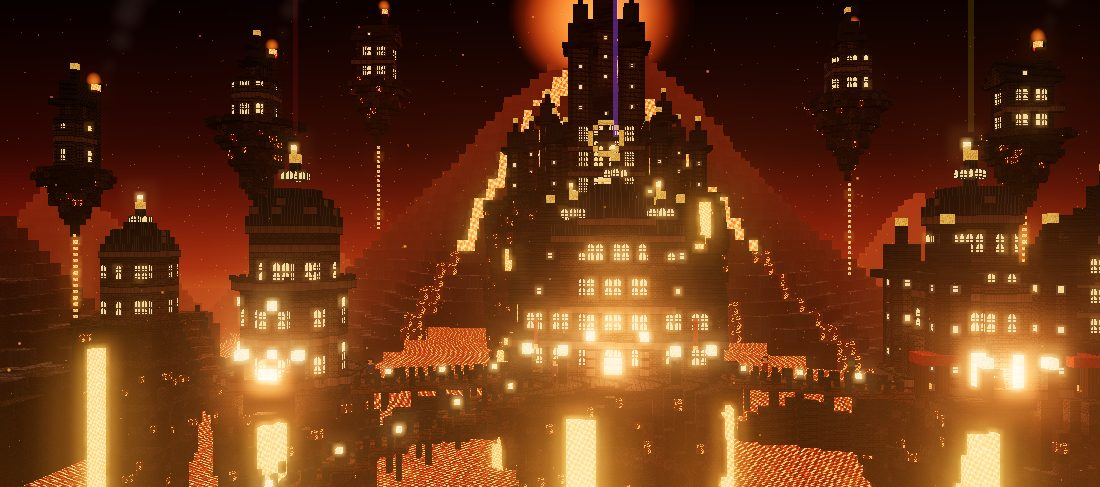
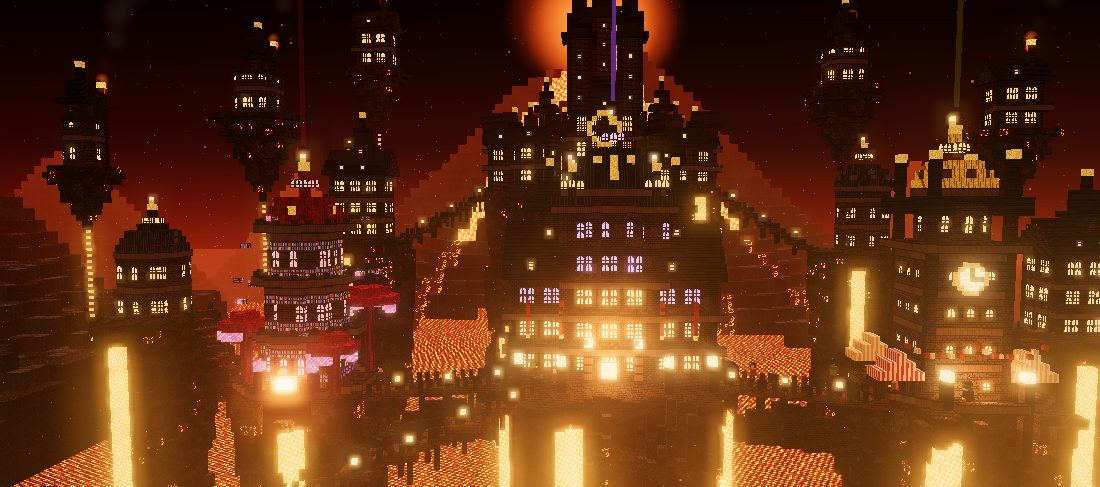
Feuerinsel: Figuren folgen schrägen Brücken, drei Bereiche mit eigenem Stil, Burgstadt, Mittelgrund-Säulen, Felsen vorne, höhere Startansicht
Claude-Session: https://claude.ai/code/session_01VyrGtGhpmUQ9uCwobRxi57

diff --git a/lernwelt/welten/feuer.js b/lernwelt/welten/feuer.js
@@ -26,7 +26,17 @@ export function build(A){
     wood: planks(["#5A3A26","#6A4630","#4E3220"], "#2A1A10"), beam: stripes(["#3A2618","#45301E","#2E1E12"], true),
     iron: noise(["#2A2A30","#34343A","#24242A"]),
     rail: tex(g=>{ for(let x=0;x<16;x++) for(let y=0;y<16;y++) P(g,x,y,(y<3||x%5===0)?"#2A2A30":"rgba(0,0,0,0)"); }),
-    banner: noise(["#9A1E14","#AA2618","#8A1A10"])
+    banner: noise(["#9A1E14","#AA2618","#8A1A10"]),
+    winV: tex(g=>{ for(let x=0;x<16;x++) for(let y=0;y<16;y++){ const arch = y<6 && Math.hypot(x-7.5,6-y)>5.6; const fr = arch || x<2||x>13||y>13||x===7||x===8||y===9; P(g,x,y, fr?"#2A1E1C":pick(["#C890FF","#E0B0FF","#B070FF","#D8A0FF"])); } }),
+    winR: tex(g=>{ for(let x=0;x<16;x++) for(let y=0;y<16;y++){ const arch = y<6 && Math.hypot(x-7.5,6-y)>5.6; const fr = arch || x<2||x>13||y>13||x===7||x===8||y===9; P(g,x,y, fr?"#2A1E1C":pick(["#FF7A8A","#FF9AA6","#FF5A70","#FFB0B8"])); } }),
+    copper: tex(g=>{ for(let y=0;y<16;y++) for(let x=0;x<16;x++) P(g,x,y, x%4===0 ? "#5A1A1A" : pick(["#8A2A22","#9A3428","#7A2018"])); }),
+    goldDome: tex(g=>{ for(let y=0;y<16;y++) for(let x=0;x<16;x++) P(g,x,y, x%4===0 ? "#8A5A18" : pick(["#D8A030","#E8B840","#C89028"])); }),
+    shelf: tex(g=>{ for(let y=0;y<16;y++) for(let x=0;x<16;x++){ const band=y<2||y>13||y===7||y===8; P(g,x,y, band?pick(["#4A2A1A","#5A3420"]):(x%3===2?"#1A0E08":["#C8413A","#3E63DD","#E9A81C","#3FA34D","#7C5CFF"][((x/3|0)+(y>8?2:0))%5])); } }),
+    crystal: tex(g=>{ for(let x=0;x<16;x++) for(let y=0;y<16;y++){ const d=(x+y)%6; P(g,x,y, d===0?"#FFE0F0":d<3?"#FF6AA0":"#C0306A"); } }),
+    stem: stripes(["#5A1E36","#6E2644","#4A162C","#7A3050"], true, "#3A1022"), wart: noise(["#8A0E14","#A0161C","#740A10","#B0242A","#960F18"]),
+    tentR: tex(g=>{ for(let y=0;y<16;y++) for(let x=0;x<16;x++) P(g,x,y, (Math.floor(x/4)%2) ? "#F2EBE2" : "#C8302A"); }),
+    tentY: tex(g=>{ for(let y=0;y<16;y++) for(let x=0;x<16;x++) P(g,x,y, (Math.floor(x/4)%2) ? "#F2EBE2" : "#E8A81C"); }),
+    clock: tex(g=>{ for(let x=0;x<16;x++) for(let y=0;y<16;y++){ const d=Math.hypot(x-7.5,y-7.5); P(g,x,y, d>7.4?"rgba(0,0,0,0)": d>6.3?"#C89028":(Math.abs(x-7.5)<.8&&y<8&&y>2)||(Math.abs(y-7.5)<.8&&x>7&&x<12)?"#1A1A1A":"#FFF2D0"); } })
   };
   const blocks = {
     rock:{side:T.rock}, rock2:{side:T.rock2}, basalt:{side:T.basaltS, top:T.basaltT}, magma:{side:T.magma, em:.9},
@@ -34,7 +44,10 @@ export function build(A){
     stone:{side:T.stone}, stoneD:{side:T.stoneD}, trim:{side:T.trim, top:T.stoneD}, slate:{side:T.slate}, dome:{side:T.dome},
     gold:{side:T.gold, em:.35}, win:{side:T.win, em:1.05}, winS:{side:T.winS, em:.95}, door:{side:T.door, em:.85},
     glow:{side:T.glow, em:1.3}, lamp:{side:T.glow, em:1.5, halo:[0xFFA040,3.2,.55]}, wood:{side:T.wood}, beam:{side:T.beam, top:T.wood},
-    iron:{side:T.iron}, rail:{side:T.rail, alpha:.98, cross:true}, banner:{side:T.banner}
+    iron:{side:T.iron}, rail:{side:T.rail, alpha:.98, cross:true}, banner:{side:T.banner},
+    winV:{side:T.winV, em:1.1}, winR:{side:T.winR, em:1.05}, copper:{side:T.copper}, goldDome:{side:T.goldDome, em:.25}, shelf:{side:T.shelf, em:.25},
+    crystal:{side:T.crystal, em:1.2, halo:[0xFF5A9A,3,.5]}, stem:{side:T.stem}, wart:{side:T.wart}, tentR:{side:T.tentR}, tentY:{side:T.tentY}, clock:{side:T.clock, em:.5, alpha:.99},
+    vlamp:{side:T.glow, em:1.5, halo:[0xB070FF,3.4,.6]}, ylamp:{side:T.glow, em:1.5, halo:[0xFFD040,3.6,.6]}
   };
   const F = A.fine, fs = (x,y,z,t) => F.set(Math.round(x*2),Math.round(y*2),Math.round(z*2),t);
   const W=120, D=96, SEA=0;
@@ -57,17 +70,17 @@ export function build(A){
   const fallFoot = [];
 
   // ---------- Bausteine ----------
-  const windowsRing = (cx,y,cz,r,step=2) => { for(let x=Math.floor(cx-r-1);x<=cx+r+1;x++) for(let z=Math.floor(cz-r-1);z<=cz+r+1;z++){ const d=Math.hypot(x-cx,z-cz); if(d<=r+.3 && d>r-.7){ const a=Math.atan2(z-cz,x-cx); if(Math.round(a*r/step*1.0)%2===0){ set(x,y,z,"win"); set(x,y+1,z,"win"); } } } };
+  const windowsRing = (cx,y,cz,r,step=2,wt="win") => { for(let x=Math.floor(cx-r-1);x<=cx+r+1;x++) for(let z=Math.floor(cz-r-1);z<=cz+r+1;z++){ const d=Math.hypot(x-cx,z-cz); if(d<=r+.3 && d>r-.7){ const a=Math.atan2(z-cz,x-cx); if(Math.round(a*r/step*1.0)%2===0){ set(x,y,z,wt); set(x,y+1,z,wt); } } } };
   const towerRound = (cx,y0,cz,r,h,o={}) => { for(let y=y0;y<y0+h;y++) ring(cx,y,cz,r,(xx,yy)=> (yy-y0)%5===4 ? "trim" : "stone");
-      for(let y=y0+1;y<y0+h-1;y+=5) windowsRing(cx,y,cz,r,o.wstep||2);
+      for(let y=y0+1;y<y0+h-1;y+=5) windowsRing(cx,y,cz,r,o.wstep||2,o.win||"win");
       disk(cx,y0+h-1,cz,r,"stoneD"); return y0+h; };
   // Kuppel aus Blöcken, mit Rippen und Laterne
   const domeAt = (cx,y0,cz,r,o={}) => { const rib = o.ribs ?? 8;
     for(let yy=0; yy<=r; yy++){ const rr = Math.sqrt(Math.max(0,r*r-yy*yy))*(o.squash||1);
-      for(let x=Math.floor(cx-rr-1);x<=cx+rr+1;x++) for(let z=Math.floor(cz-rr-1);z<=cz+rr+1;z++){ const d=Math.hypot(x-cx,z-cz); if(d<=rr+.3 && d>rr-1.3){ const a=Math.atan2(z-cz,x-cx); set(x,y0+yy,z, yy===0 ? "trim" : (Math.abs(Math.sin(a*rib/2))<.05 && yy>1 && yy<r-1 ? "trim" : "dome")); } } }
+      for(let x=Math.floor(cx-rr-1);x<=cx+rr+1;x++) for(let z=Math.floor(cz-rr-1);z<=cz+rr+1;z++){ const d=Math.hypot(x-cx,z-cz); if(d<=rr+.3 && d>rr-1.3){ const a=Math.atan2(z-cz,x-cx); set(x,y0+yy,z, yy===0 ? "trim" : (Math.abs(Math.sin(a*rib/2))<.05 && yy>1 && yy<r-1 ? (o.rib||"trim") : (o.mat||"dome"))); } } }
     const ty = y0 + Math.round(r*(o.squash||1)) + 1;
     // Laterne obendrauf
-    if(o.lantern!==false){ for(const [a,b] of [[1,0],[-1,0],[0,1],[0,-1]]) set(cx+a,ty,cz+b,"win"); set(cx,ty,cz,"glow"); set(cx,ty+1,cz,"dome"); set(cx,ty+2,cz,"gold"); fs(cx,ty+3,cz,"gold"); fs(cx,ty+3.5,cz,"lamp"); return ty+4; }
+    if(o.lantern!==false){ for(const [a,b] of [[1,0],[-1,0],[0,1],[0,-1]]) set(cx+a,ty,cz+b,o.win||"win"); set(cx,ty,cz,"glow"); set(cx,ty+1,cz,o.mat||"dome"); set(cx,ty+2,cz,"gold"); fs(cx,ty+3,cz,"gold"); fs(cx,ty+3.5,cz,o.lamp||"lamp"); return ty+4; }
     return ty; };
   // Spitzturm (gotisch): quadratischer Schaft, spitzer Helm
   const spire = (cx,y0,cz,s,h,helm) => { for(let y=y0;y<y0+h;y++) for(let a=-s;a<=s;a++) for(let b=-s;b<=s;b++){ if(Math.abs(a)!==s&&Math.abs(b)!==s) continue; const c=Math.abs(a)===s&&Math.abs(b)===s;
@@ -80,7 +93,7 @@ export function build(A){
       for(let yy=y; yy<y+fh; yy++) for(let x=x0;x<=x1;x++) for(let z=z0;z<=z1;z++){ if(x!==x0&&x!==x1&&z!==z0&&z!==z1) continue;
         const corner=(x===x0||x===x1)&&(z===z0||z===z1), band=yy===y+fh-1;
         let t = corner ? "stoneD" : band ? "trim" : "stone";
-        if(!corner && !band && yy>y && yy<y+fh-1){ const along = (z===z0||z===z1) ? x-x0 : z-z0; if(along%3!==0) t = "win"; }
+        if(!corner && !band && yy>y && yy<y+fh-1){ const along = (z===z0||z===z1) ? x-x0 : z-z0; if(along%3!==0) t = (o.win && f===fl-1) ? o.win : "win"; }
         set(x,yy,z,t); }
       // Balkon-Gesims
       if(f>0) for(let x=x0-1;x<=x1+1;x++){ set(x,y-1,z1+1,"trim"); if(x%2===0) fs(x+.25,y-.25,z1+1.25,"iron"); } }
@@ -99,50 +112,57 @@ export function build(A){
     country:   {x:98, z:58, col:0xFFE14A, ort:"Ember Market Tower"}
   };
 
-  // ---------- Grammar: großer Kuppelpalast auf der mittleren Säule ----------
-  { const {x,z}=S.grammar, top=26; pillar(x,z,top,13,{falls:[[Math.PI/2+.25,3],[Math.PI*.15,2]]});
-    const y=top; fill(x-11,y-1,z-9,x+11,y-1,z+10,"stoneD");
-    // Unterbau mit zwei Flügeln, Mittelbau höher
-    hall(x-11,y,z-6,7,10,2,{});                        // linker Flügel
-    hall(x+5,y,z-6,7,10,2,{});                         // rechter Flügel
-    const yt = hall(x-5,y,z-7,11,12,3,{roof:false});   // Mittelbau, 3 Geschosse
-    // Freitreppe und Portal
-    for(let k=0;k<3;k++) fill(x-3,y+k-1,z+5+k,x+3,y+k-1,z+5+k,null), fill(x-3,y-1,z+5,x+3,y-1,z+9,"stoneD");
-    door(x-1,y,z+4); for(const a of [-3,3]){ fill(x+a,y,z+5,x+a,y+3,z+5,"trim"); set(x+a,y+4,z+5,"lamp"); }
-    // Tambour mit Fenstern und große Kuppel
-    const ty = towerRound(x,yt,z-1,4,5,{wstep:1.5}); S.grammar.top=[x, domeAt(x,ty,z-1,5,{ribs:10}), z-1];
-    // kleine Kuppeltürme an den Ecken des Mittelbaus
-    for(const [a,b] of [[-5,-7],[5,-7],[-5,4],[5,4]]){ const t2 = towerRound(x+a,yt,z+b,1.6,3,{wstep:3}); domeAt(x+a,t2,z+b,2,{ribs:4}); }
-    // Spitztürme auf den Flügeln
-    for(const a of [-8,8]){ spire(x+a,y+8+3,z-2,1,4,5); }
-    for(const a of [-9,9]) banner(x+a,y+6,z+4.75,6);
-    for(const [a,b] of [[-10,8],[10,8],[-6,9],[6,9]]) lantern(x+a,y,z+b);
-    S.grammar.base=y; S.grammar.lift=1; S.grammar.cam={pos:[x+20,y+15,z+80], look:[x+15,y+15,z-2]}; }
+  // ---------- Grammar: großer Kuppelpalast (Gold-Violett) ----------
+  { const {x,z}=S.grammar, top=26; pillar(x,z,top,14,{falls:[[Math.PI/2+.25,3],[Math.PI*.15,2],[Math.PI*.85,2]]});
+    const y=top; fill(x-12,y-1,z-10,x+12,y-1,z+11,"stoneD");
+    hall(x-12,y,z-7,8,11,3,{win:"winV"}); hall(x+5,y,z-7,8,11,3,{win:"winV"});          // Flügel, 3 Geschosse
+    const yt = hall(x-5,y,z-8,11,13,4,{roof:false, win:"winV"});                           // Mittelbau, 4 Geschosse
+    for(let k=0;k<3;k++) fill(x-3,y-1,z+5+k,x+3,y-1,z+5+k,"stoneD");
+    door(x-1,y,z+4); for(const a of [-3,3]){ fill(x+a,y,z+5,x+a,y+3,z+5,"trim"); set(x+a,y+4,z+5,"vlamp"); }
+    // Balkone rund um den Mittelbau
+    for(const yy of [y+4,y+8,y+12]) for(let a=-6;a<=6;a++){ set(x+a,yy-1,z+5,"trim"); fs(x+a,yy+.25,z+5.75,"iron"); }
+    const ty = towerRound(x,yt,z-1.5,4.5,6,{wstep:1.3, win:"winV"}); S.grammar.top=[x, domeAt(x,ty,z-1.5,6,{ribs:12, rib:"gold", win:"winV", lamp:"vlamp"}), z-1.5];
+    for(const [a,b] of [[-5,-8],[5,-8],[-5,4],[5,4]]){ const t2 = towerRound(x+a,yt,z+b,1.6,4,{wstep:3, win:"winV"}); domeAt(x+a,t2,z+b,2,{ribs:4, lamp:"vlamp"}); }
+    for(const a of [-8,8]) spire(x+a,y+12+3,z-2,1,5,6);
+    for(const a of [-10,-6,6,10]) banner(x+a,y+9,z+4.75,8);
+    for(const [a,b] of [[-11,9],[11,9],[-6,10],[6,10]]) { fill(x+a,y,z+b,x+a,y+2,z+b,"iron"); set(x+a,y+3,z+b,"vlamp"); }
+    S.grammar.base=y; S.grammar.lift=1; S.grammar.cam={pos:[x+20,y+22,z+84], look:[x+15,y+16,z-2]}; }
 
-  // ---------- Vocabulary: Kuppelturm links ----------
+  // ---------- Vocabulary: schlanker Bibliotheksturm mit Kupferkuppel, rosa Kristallen und Purpurpilzen ----------
   { const {x,z}=S.vocabulary, top=26; pillar(x,z,top,8,{falls:[[Math.PI/2-.2,2]]});
-    const y=top; ring(x,y,z,7.5,"trim"); for(let a=0;a<16;a++){ const an=a/16*Math.PI*2; fs(x+Math.cos(an)*7.6,y+.5,z+Math.sin(an)*7.6,"iron"); }
-    let t = towerRound(x,y,z,5,10,{wstep:1.6});
-    ring(x,t,z,6,"trim"); for(let a=0;a<20;a++){ const an=a/20*Math.PI*2; fs(x+Math.cos(an)*6.2,t+.75,z+Math.sin(an)*6.2,"iron"); }     // Galerie
-    t = towerRound(x,t,z,4,6,{wstep:1.4});
-    S.vocabulary.top=[x, domeAt(x,t,z,4.5,{ribs:8}), z];
-    door(x-1,y,z+5); for(const a of [-3,3]) lantern(x+a,y,z+6);
-    for(const k of [y+3,y+8]) for(const [a,b] of [[0,1],[1,0],[-1,0]]) set(x+a*5.4|0,k,z+b*5.4|0,"lamp");
-    S.vocabulary.base=y; S.vocabulary.lift=1; S.vocabulary.cam={pos:[x+30,y+13,z+64], look:[x+15,y+13,z]}; }
+    const y=top; ring(x,y,z,7.5,"trim");
+    // Riesenpilze am Rand der Säule
+    const fungus = (fx,fy,fz,hh,r) => { fill(fx,fy,fz,fx,fy+hh,fz,"stem"); for(let a=-r;a<=r;a++) for(let b=-r;b<=r;b++){ const d=Math.hypot(a,b); if(d<=r+.3){ set(fx+a,fy+hh+1,fz+b,"wart"); if(d<r-.8) set(fx+a,fy+hh+2,fz+b,"wart"); if(d>r-.8 && rand()<.3) set(fx+a,fy+hh,fz+b,"crystal"); } } };
+    fungus(x-6,y,z+3,6,2); fungus(x+6,y,z-4,8,3); fungus(x+5,y,z+5,4,2);
+    let t = y;
+    for(let k=0;k<3;k++){ for(let yy=t;yy<t+6;yy++) ring(x,yy,z,4.6-k*.5,(xx,y2)=> (y2-t)===5 ? "trim" : ((y2-t)%3===1 ? "shelf" : "stone")); windowsRing(x,t+2,z,4.6-k*.5,1.4,"winR"); t+=6;
+      ring(x,t,z,5.8-k*.5,"trim"); for(let a=0;a<18;a++){ const an=a/18*Math.PI*2; fs(x+Math.cos(an)*(6-k*.5),t+.75,z+Math.sin(an)*(6-k*.5),"iron"); } }   // drei Galerien
+    S.vocabulary.top=[x, domeAt(x,t,z,4,{ribs:8, mat:"copper", rib:"gold", win:"winR"}), z];
+    // schwebende Bücher und Kristalle rund um den Turm
+    for(let i=0;i<14;i++){ const an=i/14*Math.PI*2+.3, rr=7+rand()*2, hy=y+6+rand()*14; fs(x+Math.cos(an)*rr,hy,z+Math.sin(an)*rr, i%3===0?"crystal":"shelf"); fs(x+Math.cos(an)*rr+.5,hy,z+Math.sin(an)*rr,"shelf"); }
+    door(x-1,y,z+5); for(const a of [-3,3]){ fill(x+a,y,z+6,x+a,y+2,z+6,"iron"); set(x+a,y+3,z+6,"crystal"); }
+    S.vocabulary.base=y; S.vocabulary.lift=1; S.vocabulary.cam={pos:[x+30,y+20,z+66], look:[x+15,y+14,z]}; }
 
-  // ---------- Country & people: Turm mit Spitztürmchen rechts ----------
-  { const {x,z}=S.country, top=26; pillar(x,z,top,9,{falls:[[Math.PI/2+.35,3]]});
-    const y=top; ring(x,y,z,8.5,"trim");
-    // Arkadengeschoss (offene Bögen mit Licht), darüber Turm
-    for(let yy=y; yy<y+5; yy++) ring(x,yy,z,6,(xx,y2,zz)=>{ const a=Math.atan2(zz-z,xx-x); return (y2<y+4 && Math.round(a*6/Math.PI*1.5)%2===0) ? "door" : "stone"; });
-    let t = towerRound(x,y+5,z,5,8,{wstep:1.6});
-    for(const [a,b] of [[-5,-5],[5,-5],[-5,5],[5,5]]) spire(x+a,y,z+b,1,t-y-2,6);
-    t = towerRound(x,t,z,3.6,4,{wstep:1.2});
-    S.country.top=[x, domeAt(x,t,z,4,{ribs:8}), z];
-    // Marktstände unten
-    for(const [a,b,c] of [[-7,6,"banner"],[7,6,"banner"]]){ fill(x+a-1,y,z+b,x+a-1,y+2,z+b,"beam"); fill(x+a+1,y,z+b,x+a+1,y+2,z+b,"beam"); fill(x+a-1,y+3,z+b-1,x+a+1,y+3,z+b+1,c); fs(x+a,y+.25,z+b,"gold"); }
-    for(const a of [-3,3]) lantern(x+a,y,z+8);
-    S.country.base=y; S.country.lift=1; S.country.cam={pos:[x+2,y+13,z+66], look:[x+15,y+13,z]}; }
+  // ---------- Country & people: Markt-Turm mit goldener Kuppel, Uhr, Spitztürmen und bunten Zelten ----------
+  { const {x,z}=S.country, top=26; pillar(x,z,top,10,{falls:[[Math.PI/2+.35,3]]});
+    const y=top; ring(x,y,z,9.5,"trim");
+    // quadratischer Turm
+    const s0=4; let t=y;
+    for(let yy=y;yy<y+16;yy++) for(let a=-s0;a<=s0;a++) for(let b=-s0;b<=s0;b++){ if(Math.abs(a)!==s0&&Math.abs(b)!==s0) continue; const c=Math.abs(a)===s0&&Math.abs(b)===s0;
+      set(x+a,yy,z+b, c ? "stoneD" : (yy-y)%4===3 ? "trim" : ((yy-y)%4===1 && (a+b)%2===0 ? "win" : "stone")); }
+    t=y+16; fill(x-s0-1,t,z-s0-1,x+s0+1,t,z+s0+1,"trim");
+    // Uhr vorne
+    for(let u=-1.5;u<=1.5;u+=.5) for(let v=-1.5;v<=1.5;v+=.5){ if(Math.hypot(u,v)<=1.8) fs(x+u,t-3+v,z+s0+.75, Math.hypot(u,v)>1.4 ? "gold" : (Math.abs(u)<.3&&v>=0)||(Math.abs(v)<.3&&u>=0&&u<1.1) ? "iron" : "glow"); }
+    for(const [a,b] of [[-s0,-s0],[s0,-s0],[-s0,s0],[s0,s0]]) spire(x+a,t+1,z+b,0,3,6);
+    t = towerRound(x,t+1,z,3,5,{wstep:1.2});
+    S.country.top=[x, domeAt(x,t,z,3.6,{ribs:8, mat:"goldDome", rib:"trim", lamp:"ylamp"}), z];
+    // bunte Marktzelte rund um den Turm
+    const tent = (cx,cz,tt) => { for(let hh=0;hh<3;hh++) for(let a=-(2-hh);a<=2-hh;a++) fill(cx+a,y+2+hh,cz-1,cx+a,y+2+hh,cz+1,tt); for(const [a,b] of [[-2,-1],[2,-1],[-2,1],[2,1]]) fill(cx+a,y,cz+b,cx+a,y+1,cz+b,"beam"); fs(cx,y+.25,cz,"gold"); fs(cx+.5,y+.25,cz,"banner"); };
+    tent(x-7,z+3,"tentR"); tent(x+7,z+3,"tentY"); tent(x-6,z-6,"tentY"); tent(x+7,z-5,"tentR");
+    // Wimpelketten
+    for(const [a0,a1] of [[-7,0],[0,7]]) for(let k=0;k<=8;k++){ const fx=x+a0+(a1-a0)*k/8, fy=y+6-Math.sin(k/8*Math.PI)*1.2; fs(fx,fy,z+6.5, k%2?"tentY":"banner"); }
+    for(const a of [-4,4]){ fill(x+a,y,z+8,x+a,y+2,z+8,"iron"); set(x+a,y+3,z+8,"ylamp"); }
+    S.country.base=y; S.country.lift=1; S.country.cam={pos:[x+2,y+20,z+70], look:[x+15,y+14,z]}; }
 
   // ---------- Brücken ----------
   // Brücke von a nach b (Deck + Geländer, darunter Bögen/Streben), sanft durchhängend
@@ -160,6 +180,8 @@ export function build(A){
   // ---------- Vordergrund: Felskante mit Holzhütten (links), Felsen (rechts) ----------
   const ledge = (cx,cz,top,r) => { for(let y=SEA-2;y<top;y++){ const rr=r*(.8+.2*(y-SEA)/(top-SEA)); for(let x=Math.floor(cx-rr-2);x<=cx+rr+2;x++) for(let z=Math.floor(cz-rr-2);z<=cz+rr+2;z++){ const a=Math.atan2(z-cz,x-cx); if(Math.hypot(x-cx,z-cz)<=rr*(1+.2*Math.sin(a*4+y*.3))) set(x,y,z, rand()<.3?"rock2":"rock"); } } };
   ledge(4,92,12,10); ledge(118,90,10,9); ledge(-6,74,16,7);
+  const crag = (cx,cz,h,r) => { for(let y=SEA-2;y<h;y++){ const t=(y-SEA)/(h-SEA), rr=r*(1-t*.75); for(let x=Math.floor(cx-rr-2);x<=cx+rr+2;x++) for(let z=Math.floor(cz-rr-2);z<=cz+rr+2;z++){ const an=Math.atan2(z-cz,x-cx); if(Math.hypot(x-cx,z-cz)<=rr*(1+.25*Math.sin(an*3+y*.4+cx))) set(x,y,z, rand()<.04?"magma":rand()<.3?"rock2":"rock"); } } };
+  crag(-14,104,26,9); crag(134,102,30,10); crag(126,86,18,6); crag(-18,90,20,6);
   const hut = (x0,y,z0,w,d) => { for(let yy=y;yy<y+4;yy++) for(let x=x0;x<x0+w;x++) for(let z=z0;z<z0+d;z++){ if(x!==x0&&x!==x0+w-1&&z!==z0&&z!==z0+d-1) continue; const c=(x===x0||x===x0+w-1)&&(z===z0||z===z0+d-1); set(x,yy,z, c?"beam":(yy===y+2&&(x+z)%3===0?"winS":"wood")); }
     const half=Math.ceil(d/2)+1; for(let k=0;k<half;k++) for(let x=x0-1;x<=x0+w;x++){ set(x,y+4+k,z0-1+k,"slate"); set(x,y+4+k,z0+d-k,"slate"); } set(x0+1,y,z0+d-1,"door"); set(x0+1,y+1,z0+d-1,"door"); };
   hut(-2,12,88,6,5); hut(6,12,94,5,4);
@@ -180,6 +202,14 @@ export function build(A){
     // Mauerring mit Türmen
     for(let a=0;a<48;a++){ const an=a/48*Math.PI*2, wx=Math.round(x+Math.cos(an)*19), wz=Math.round(z+Math.sin(an)*12); if(wz>z+10) continue; fill(wx,y,wz,wx,y+4,wz,"stoneD"); if(a%2===0) set(wx,y+5,wz,"stoneD"); }
     S.castleTop=[x,y+29,z-2]; }
+  // Häuser mit Lichtern rund um die Burg (wie im Bild: die Stadt zieht sich den Hang hinauf)
+  { const cx=60, cz=-6, y=50; const house = (hx,hz,w,d,fl) => { if(get(hx,y,hz)||get(hx+w-1,y,hz+d-1)) return; hall(hx,y,hz,w,d,fl,{}); };
+    for(const [hx,hz,w,d,fl] of [[38,4,5,4,2],[44,10,5,4,2],[73,4,5,4,2],[69,10,5,4,1],[36,-10,4,5,3],[80,-10,4,5,3],[46,-16,5,4,2],[70,-18,5,4,2],[40,-2,4,4,1],[78,-2,4,4,2]]) house(hx,hz,w,d,fl);
+    for(let k=0;k<26;k++){ const an=k/26*Math.PI*2, lx=Math.round(cx+Math.cos(an)*20), lz=Math.round(cz+Math.sin(an)*13); if(get(lx,y-1,lz) && !get(lx,y,lz)){ set(lx,y,lz,"iron"); set(lx,y+1,lz,"lamp"); } } }
+  // Säulen mit Bauten im Mittelgrund links und rechts, mit Brücken zur Burg
+  { pillar(14,10,40,8,{falls:[[Math.PI/2,2]]}); const t1=hall(9,40,6,10,8,3,{}); spire(14,t1+2,10,1,3,6); domeAt(10,40+12,6,2,{ribs:4});
+    pillar(108,8,38,8,{falls:[[Math.PI/2+.3,2]]}); const t2=towerRound(108,38,8,4,11,{wstep:1.6}); domeAt(108,t2,8,4.5,{ribs:8});
+    bridge([22,39,10],[39,49,0],{truss:4, lamps:true}); bridge([99,37,8],[81,49,0],{truss:4, lamps:true}); }
 
   // ---------- weitere Säulen mit Bauten an den Seiten ----------
   { pillar(-8,40,30,7,{falls:[[Math.PI/2,2]]}); const t=towerRound(-8,30,40,4,9,{wstep:1.6}); domeAt(-8,t,40,4.2,{ribs:6});
@@ -199,7 +229,7 @@ export function build(A){
 
   // ---------- Vulkan und Landschaft bis zum Horizont ----------
   const Fr = A.far; Fr.cell = 3;
-  const VX=60, VZ=-110, VH=124, VR=125;
+  const VX=60, VZ=-110, VH=112, VR=125;
   const volc = (x,z) => { const d=Math.hypot(x-VX,(z-VZ)*1.05); if(d>VR) return -99; const ridge = Math.sin(Math.atan2(z-VZ,x-VX)*7)*4*Math.min(1,d/30);
     let h = VH*Math.pow(1-d/VR,1.25) + ridge + (fbm(x*.04,z*.04)-.5)*10; if(d<14) h = Math.min(h, VH*Math.pow(1-14/VR,1.25)-6); return h; };
   const crater = (x,z) => Math.hypot(x-VX,(z-VZ)*1.05) < 14;
@@ -222,7 +252,7 @@ export function build(A){
     { ...dragon(), orbit:{c:[60,70,20], r:[86,60], speed:.1, ph:1.2, bob:2, wander:{f:.21, r:.2, y:8, eight:8, dx:12, dz:10, span:14, clear:8}}, scale:.55 }
   ];
   const walkLine = (a,b,o) => { const cx=(a[0]+b[0])/2, cz=(a[2]+b[2])/2, len=Math.hypot(b[0]-a[0],b[2]-a[2])/2-1.5;
-    creatures.push({ ...person(o.p), orbit:{c:[cx,a[1]+1,cz], r:[len,.001], rot:Math.atan2(b[2]-a[2],b[0]-a[0]), speed:o.speed||.16, ph:o.ph||0, bob:.03, cycle:o.cycle||[22,.6,0]}, scale:o.scale||.17, clearR:0 }); };
+    creatures.push({ ...person(o.p), orbit:{c:[cx,(a[1]+b[1])/2+1,cz], r:[len,.001], rot:Math.atan2(b[2]-a[2],b[0]-a[0]), slope:(b[1]-a[1])/(2*len+3), speed:o.speed||.16, ph:o.ph||0, bob:.03, cycle:o.cycle||[22,.6,0]}, scale:o.scale||.17, clearR:0 }); };
   walkLine(...BR.r, {p:{walk:true, shirt:0x8A2A1E}, ph:0});
   walkLine(...BR.r, {p:{walk:true, orc:true, shirt:0x4A3A2A, helm:0x5A5E66}, ph:Math.PI, cycle:[26,.55,6], scale:.19});
   walkLine(...BR.l, {p:{walk:true, shirt:0x2F4A8A, cape:0x6A1A12}, ph:1});
@@ -255,7 +285,7 @@ export function build(A){
            {n:14, pos:[-20,3,60], dx:150, dy:2, dz:0, s0:16, s1:20, color:0x6A4A40, opacity:.22, speed:.01, spread:30, sz:.6, flat:.35}],
     bombs:{pos:[VX,VH-10,VZ], n:20, period:12, burst:2.4, life:6, speed:[10,26], up:[30,44], g:-18, size:2.2, glowSize:3.4, color:0xFFC060, glow:0xFF6A1A, floor:20, light:[0xFF7A2A, 4000, 220], biasZ:4},
     creatures,
-    home:{pos:[62,52,196], look:[60,44,20]}, homePortrait:{pos:[62,48,214], look:[60,40,28]},
+    home:{pos:[62,84,196], look:[60,46,26]}, homePortrait:{pos:[62,96,236], look:[60,32,30]},
     ui:{bg:"rgba(34,8,4,.9)", border:"#FF9A4A", glow:"rgba(255,110,30,.55)", text:"#FFF1E2", sub:"#E8B48C", accent:"#FFB23A", "accent-ink":"#2A0A04", chip:"rgba(30,8,4,.8)"}
   };
 }

diff --git a/lernwelt/welt3d.js b/lernwelt/welt3d.js
@@ -354,7 +354,7 @@ export async function start(o){
         } else {
         // rot: Bahn gedreht (z. B. schräg über eine Brücke hin und her)
         const ca = Math.cos(ob.rot||0), sa = Math.sin(ob.rot||0), ox = Math.cos(t)*rx, oz = Math.sin(t)*rz;
-        outer.position.set(cx+ox*ca-oz*sa, cy+Math.sin(t*2)*(ob.bob??.6)*move, cz+ox*sa+oz*ca);
+        outer.position.set(cx+ox*ca-oz*sa, cy+ox*(ob.slope||0)+Math.sin(t*2)*(ob.bob??.6)*move, cz+ox*sa+oz*ca);
         if(ob.legacyFace!==undefined) outer.rotation.y = -t + ob.legacyFace;
         else { const v0=-Math.sin(t)*rx*(ob.dir||1), w0=Math.cos(t)*rz*(ob.dir||1), vx=v0*ca-w0*sa, vz=v0*sa+w0*ca; outer.rotation.y = Math.atan2(-vz, vx); outer.rotation.x = (ob.bank||0)*(ob.dir||1)*move; outer.rotation.z = (ob.pitch||0)*Math.cos(t*2); } } }
       else if(cr.pass){ // Vorbeiflug von a nach b, nur während des Flugs sichtbar (z. B. Fledermausschwarm)
